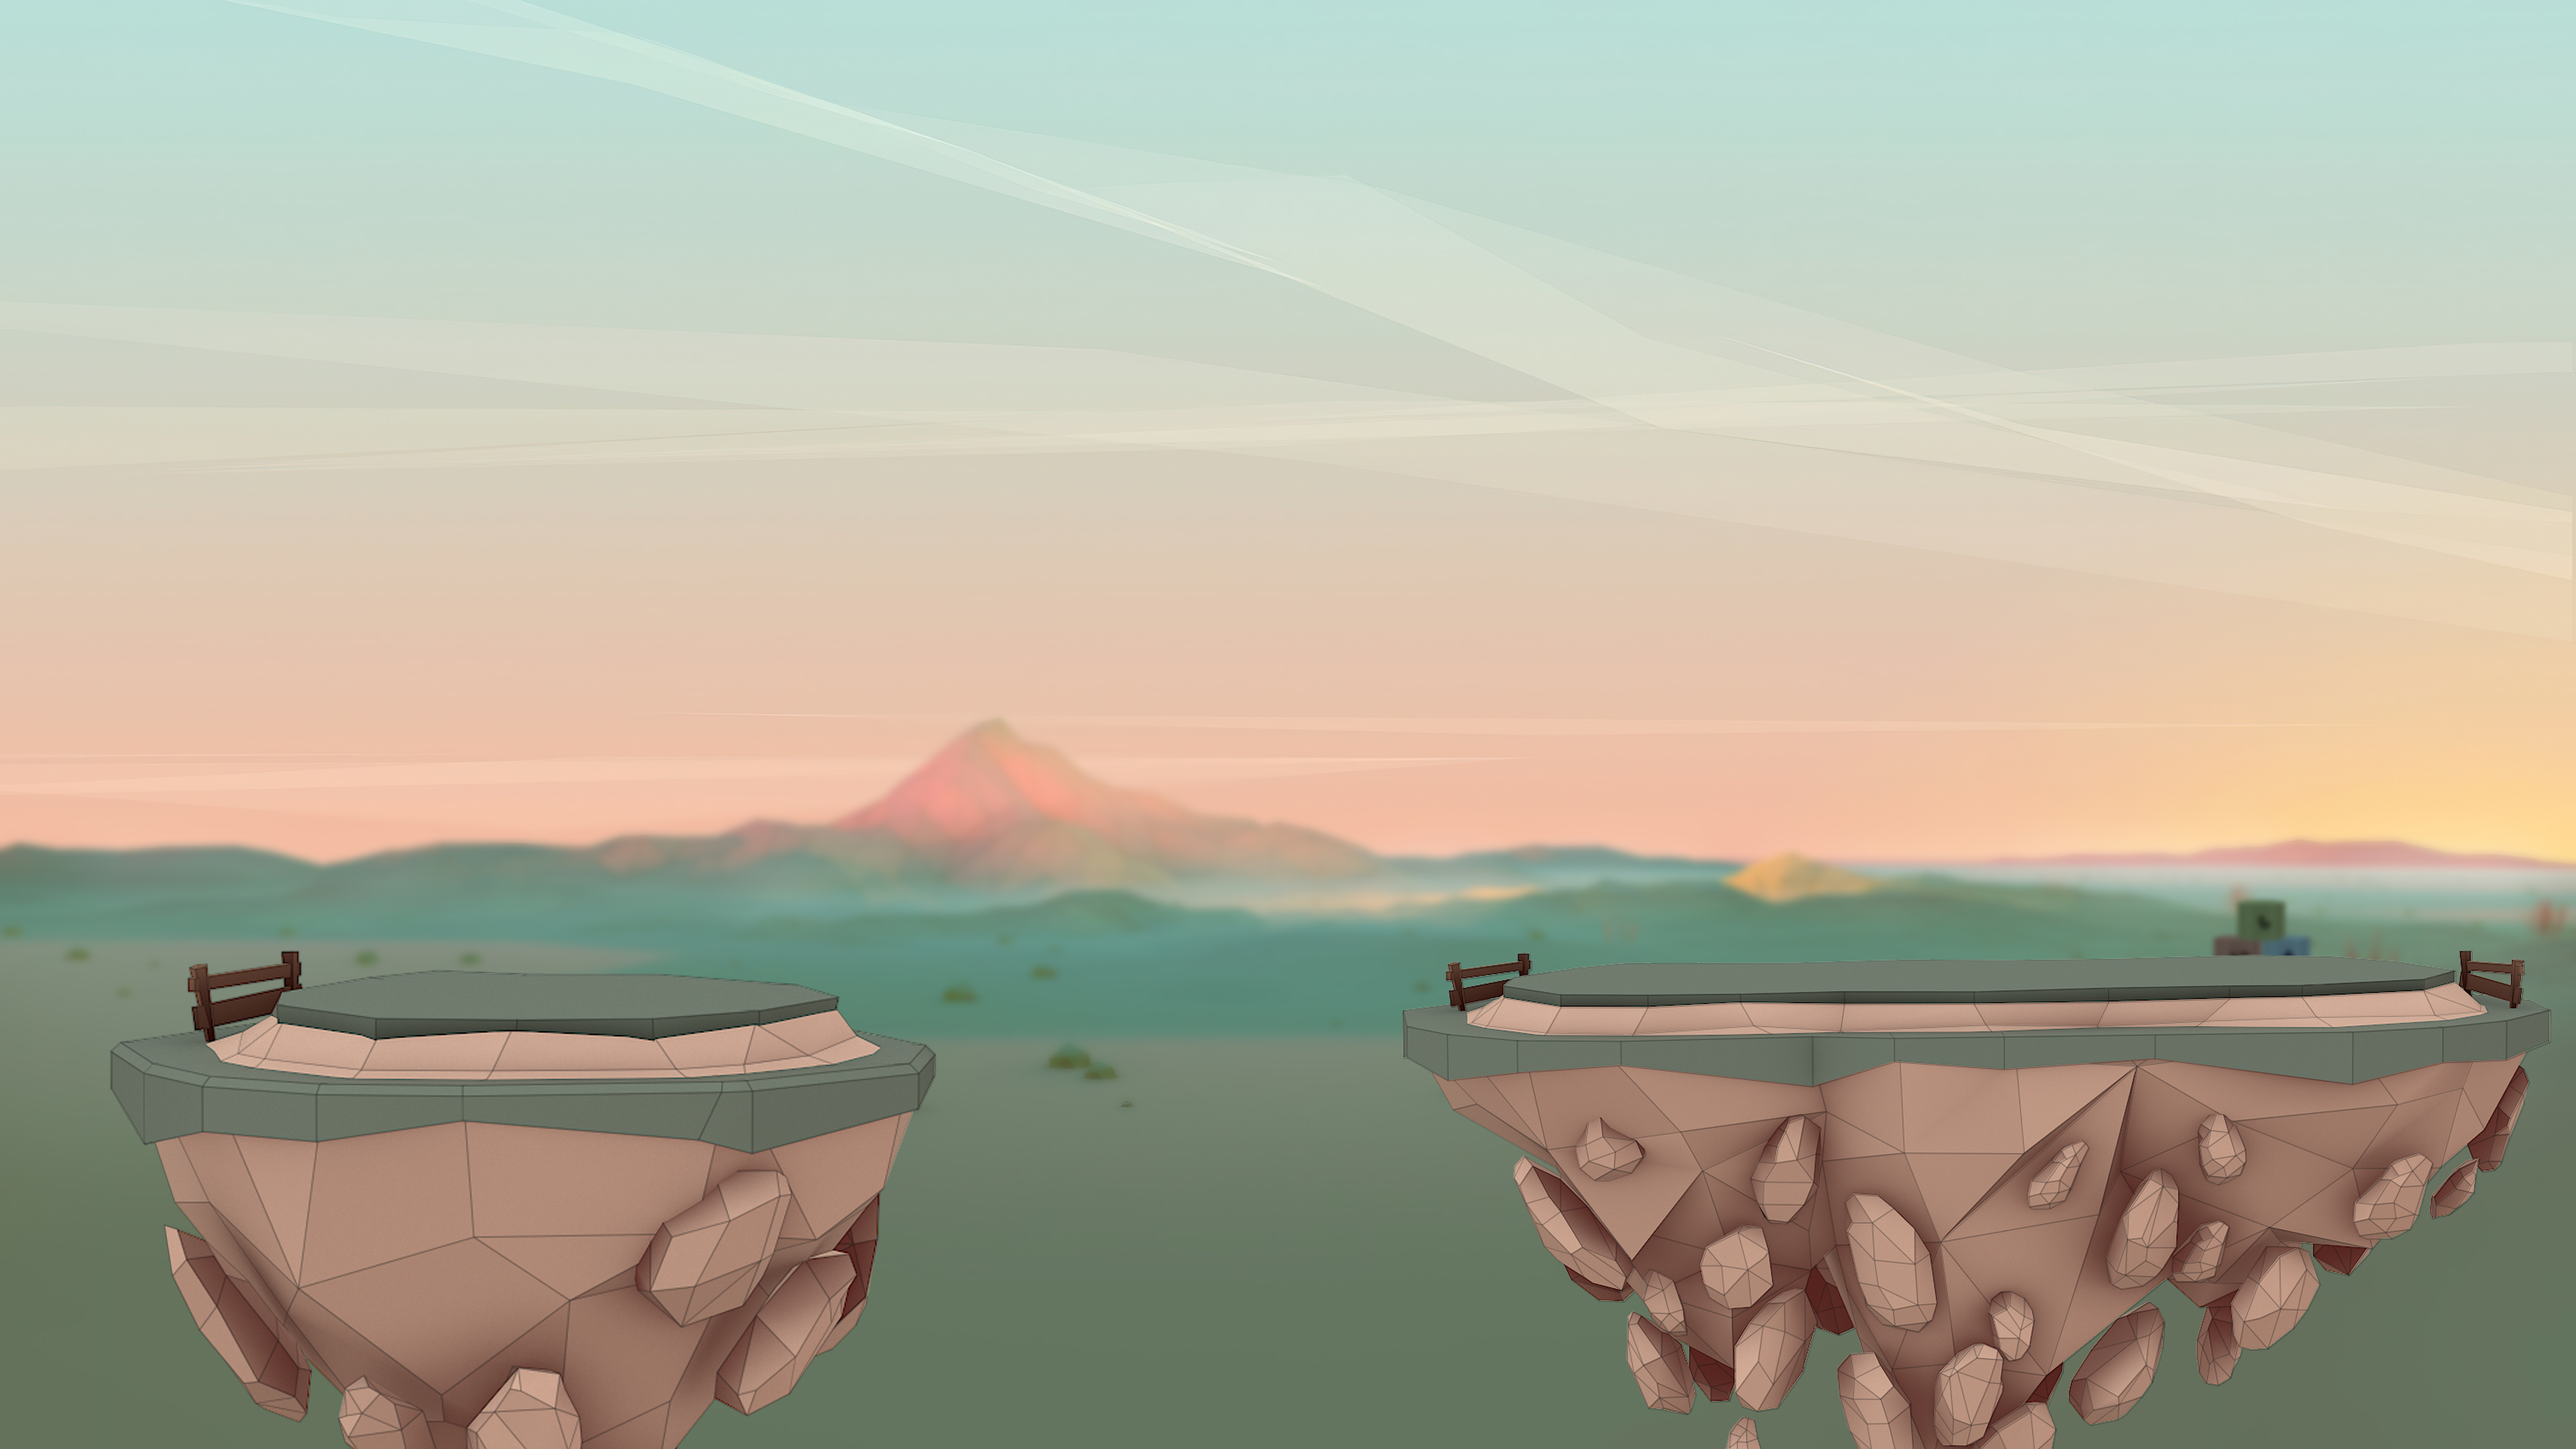
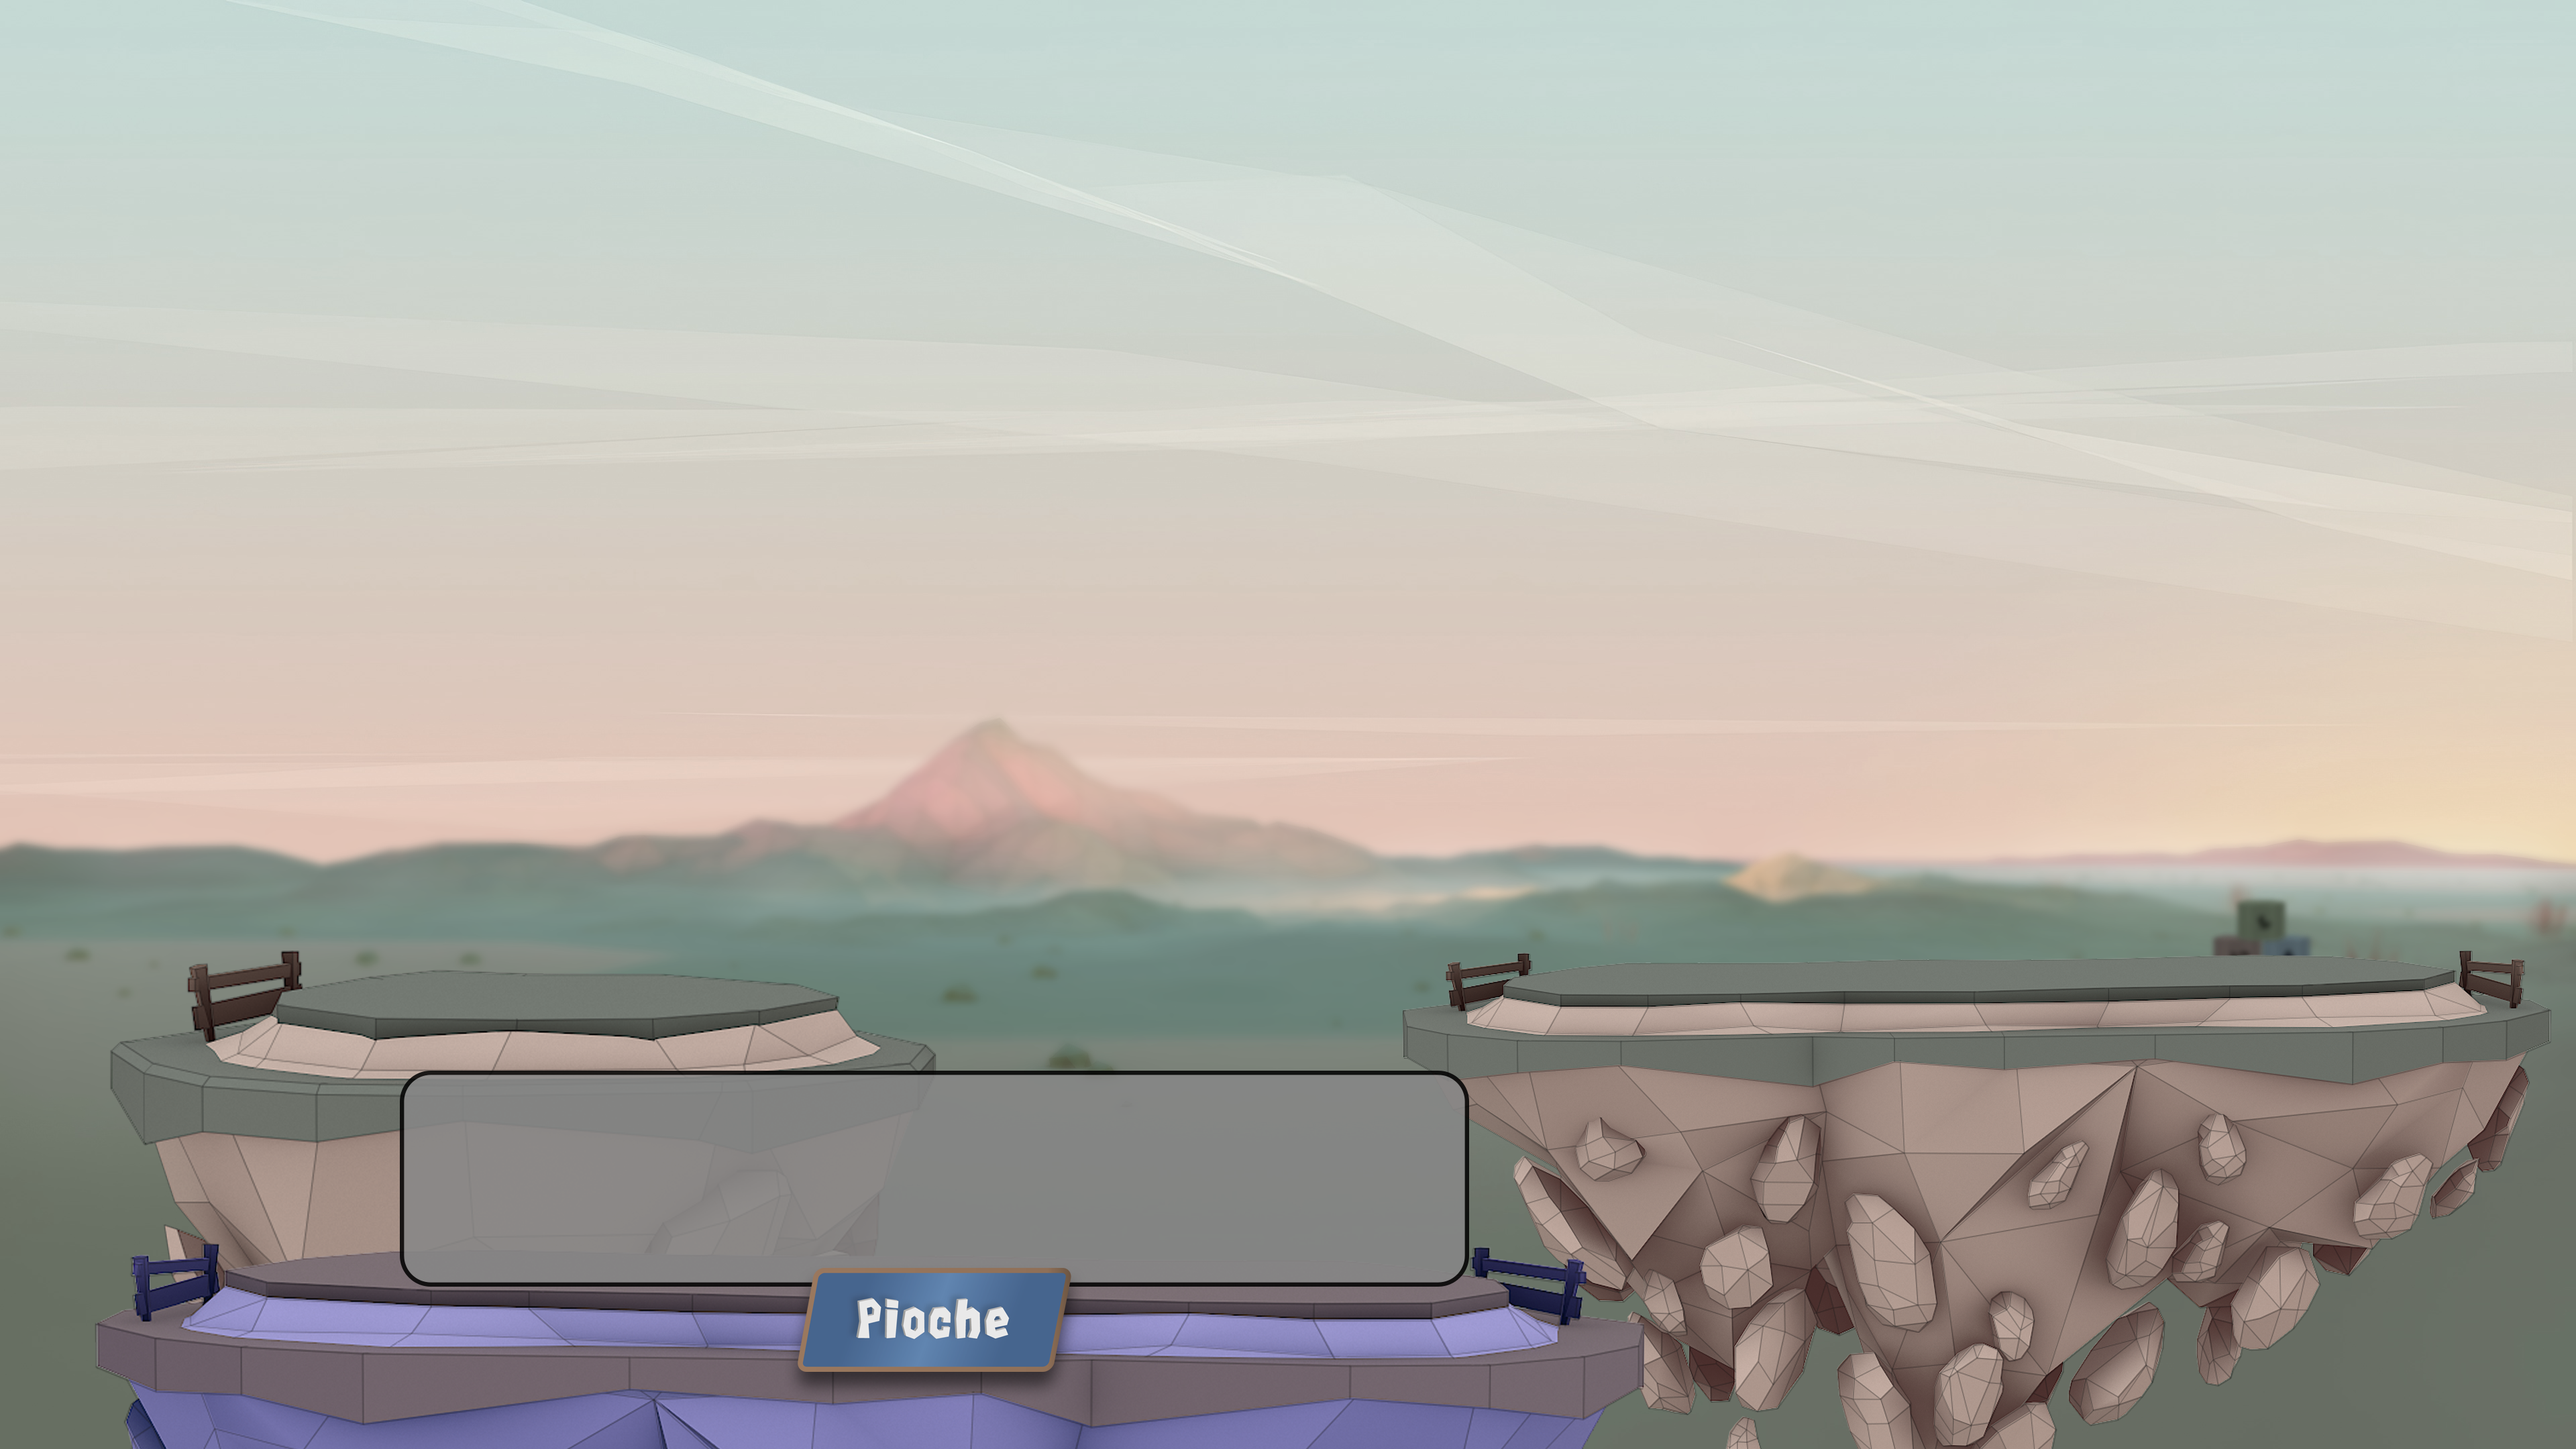
position pièces

diff --git a/src/Vue/Phase1/Phase1Panel.java b/src/Vue/Phase1/Phase1Panel.java
@@ -65,7 +65,6 @@ public class Phase1Panel extends PanelGeneral{
 		addMouseListener(new ecouteurClick(this));
 		this.window.setSize(tailleFenetre.width,tailleFenetre.height);
 		this.window.setExtendedState(JFrame.MAXIMIZED_BOTH);
-		//changementTaillefenetre();
 	}
 	
 	public void setPartieEnCours(Partie p) {
@@ -100,18 +99,18 @@ public class Phase1Panel extends PanelGeneral{
         
         double rapport=0.8576709797;
         double rapport_chrono=1.395;//400x558
-		TAILLE_CUBES_LARGEUR = tailleFenetre.width/28;//541
+		TAILLE_CUBES_LARGEUR = Math.min(largeur_background/28, frameWidth/28);
 		TAILLE_CUBES_HAUTEUR = (int)(TAILLE_CUBES_LARGEUR*rapport);//464
 		
 		//Position objet
-		POSX_BASE_JOUEUR = posX_background+largeur_background/10;
-		POSY_BASE_JOUEUR = hauteur_background/3;
+		POSX_BASE_JOUEUR = posX_background+(int)(largeur_background*0.11);
+		POSY_BASE_JOUEUR = posY_background+(int)(hauteur_background*0.37);
 		
-		POSX_PIOCHE = 0;
-		POSY_PIOCHE = POSY_BASE_JOUEUR+(TAILLE_CUBES_HAUTEUR+1)*6+30;
+		POSX_PIOCHE = posX_background+(int)(largeur_background*0.17);
+		POSY_PIOCHE = posY_background+(int)(hauteur_background*0.76);
 		
-		POSX_BASE_MONTAGNE = POSX_BASE_JOUEUR+TAILLE_CUBES_LARGEUR*9;
-		POSY_BASE_MONTAGNE = POSX_BASE_JOUEUR;
+		POSX_BASE_MONTAGNE = posX_background+(int)(largeur_background*0.61);
+		POSY_BASE_MONTAGNE = POSY_BASE_JOUEUR-(int)(TAILLE_CUBES_HAUTEUR*3.4);
 		
 		posX_chrono = POSX_BASE_JOUEUR+2*TAILLE_CUBES_LARGEUR;
 		posY_chrono = POSY_BASE_JOUEUR-(int)(3.8*TAILLE_CUBES_HAUTEUR);
@@ -127,10 +126,10 @@ public class Phase1Panel extends PanelGeneral{
 		posX_nom_joueur = posX_chrono-(int)(taille_police_nom_joueur*1.2);
 		posY_nom_joueur = posY_chrono-TAILLE_CUBES_HAUTEUR;
 		
-		posX_bouton_melange=POSX_BASE_JOUEUR+TAILLE_CUBES_LARGEUR/2;
-		posY_bouton_melange=POSY_PIOCHE+(int)(TAILLE_CUBES_HAUTEUR*1.5);
-	    posX_bouton_valider=posX_bouton_melange+largeur_bouton+TAILLE_CUBES_LARGEUR/2;
-	    posY_bouton_valider=posY_bouton_melange;
+		posX_bouton_melange=posX_background+(int)(largeur_background*0.4);
+		posY_bouton_melange=posY_chrono;
+	    posX_bouton_valider=posX_bouton_melange;
+	    posY_bouton_valider=posY_bouton_melange+(int)(hauteur_bouton*1.1);
 	}
 	
 	// PIECE SELECTIONEE----------------------------------------------
@@ -284,10 +283,51 @@ public class Phase1Panel extends PanelGeneral{
 	// AFFICHAGE PIOCHE----------------------------------------------------------------------
 	public void affichePioche(Graphics g) {
 		Acteur a = initAffichageJoueurs();
-		for(int i = 0; i < a.getPiecesPiochees().size(); i++) {
+		int nb_pieces=a.getPiecesPiochees().size();
+		int posX=POSX_PIOCHE;
+		int posY=POSY_PIOCHE;
+		for(int i = 0; i < nb_pieces; i++) {
 			Piece p = a.getPiecesPiochees().get(i);
-			g.drawImage(getpetitcolor(p), i*(TAILLE_CUBES_LARGEUR+1)+POSX_PIOCHE, POSY_PIOCHE, TAILLE_CUBES_LARGEUR, TAILLE_CUBES_HAUTEUR,null);
+			if(i<10) {
+				g.drawImage(getpetitcolor(p), posX, posY, TAILLE_CUBES_LARGEUR, TAILLE_CUBES_HAUTEUR,null);
+				posX+=TAILLE_CUBES_LARGEUR;
+			}else {
+				if(i==10) {
+					posX=POSX_PIOCHE;
+					posY+=TAILLE_CUBES_HAUTEUR+2;
+				}
+				g.drawImage(getpetitcolor(p), posX, posY, TAILLE_CUBES_LARGEUR, TAILLE_CUBES_HAUTEUR,null);
+				posX+=TAILLE_CUBES_LARGEUR;
+			}
 		}
 	}
 	
 }
+
+
+
+
+
+
+
+
+
+
+
+
+
+
+
+
+
+
+
+
+
+
+
+
+
+
+
+
